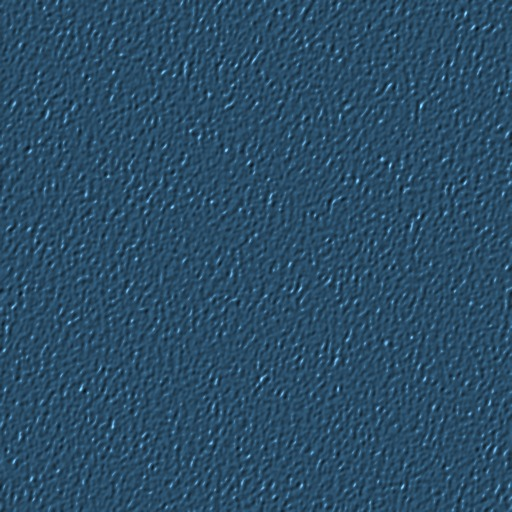
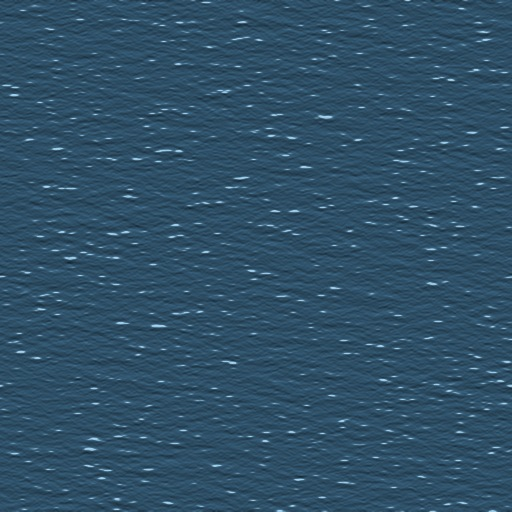
Natural land and sea: graded green terrain with relief and biome detail at double resolution, relation colour ramps from CoN, wind-swell waves with whitecaps, land shadow on the water
Claude-Session: https://claude.ai/code/session_014nGi4eSs3FWdL2Rsq4Dqkd

Changed region(s): [[0.0, 0.0, 1.0, 1.0]]

diff --git a/app/world/index.html b/app/world/index.html
@@ -23,18 +23,21 @@ const DATA = new URLSearchParams(location.search).get('data') || '../../art/worl
 const cv = document.getElementById('c'), ctx = cv.getContext('2d');
 const T = 512;
 let W, H, world, countries = [], byIso = {}, cityOrder = [];
-const COL = {
-  me:      {c: [0.28, 0.54, 0.20], a: 0.64},
-  ally:    {c: [0.40, 0.66, 0.38], a: 0.62},
-  passage: {c: [0.11, 0.28, 0.13], a: 0.80},
-  neutral: {c: [0.13, 0.21, 0.21], a: 0.86},   // strangers: CoN's deep blue-green slate (sampled from CoN)
-  enemy:   {c: [0.34, 0.035, 0.05], a: 0.84},
+// Relation colours as shadow -> highlight ramps measured from CoN screenshots. The terrain's own light and
+// dark runs through the ramp, so forests, fields and hills stay visible in every colour.
+// keep = how much of the natural terrain colour stays (own land is shown nearly as it is).
+const RAMP = {
+  me:      {lo: [26, 66, 30],   hi: [146, 190, 96],  keep: 0.75},
+  ally:    {lo: [84, 104, 62],  hi: [188, 204, 146], keep: 0.15},   // pale olive, like Algeria in CoN
+  passage: {lo: [12, 44, 22],   hi: [70, 118, 62],   keep: 0.10},
+  neutral: {lo: [8, 24, 20],    hi: [64, 84, 76],    keep: 0.0},    // deep blue-green slate
+  enemy:   {lo: [30, 4, 4],     hi: [142, 40, 34],   keep: 0.0},    // blood red, terrain showing through
 };
 let ME = 'JOR';
 let REL = {SAU: 'ally', EGY: 'ally', IRQ: 'passage', IRN: 'enemy'};   // everyone else: neutral (dark slate)
 const relOf = i => { const iso = countries[i]?.iso; return iso === ME ? 'me' : (REL[iso] || 'neutral'); };
 let view = {x: 0, y: 0, z: 1};
-let wavePat = null;
+let wavePat = null, manifest = null, ZMAX = 3;
 load('waves.jpg').then(img => { wavePat = ctx.createPattern(img, 'repeat'); draw(); });
 // gentle wave motion: a light redraw loop (about 12 frames a second, paused when the app is hidden)
 setInterval(() => { if (!document.hidden && world && view.z > 0.15) draw(); }, 83);
@@ -46,31 +49,30 @@ function load(src) { return new Promise((r, j) => { const i = new Image(); i.onl
 async function buildTile(z, tx, ty) {
   const [sat, nat] = await Promise.all([load(`${DATA}tiles/${z}/${tx}_${ty}.jpg`), load(`${DATA}tiles/${z}/${tx}_${ty}_n.png`)]);
   const w = sat.width, h = sat.height;
-  const c = document.createElement('canvas'); c.width = w; c.height = h;
-  const g = c.getContext('2d', {willReadFrequently: true});
+  const mkc = () => { const c = document.createElement('canvas'); c.width = w; c.height = h; return c; };
+  const landC = mkc(), g = landC.getContext('2d', {willReadFrequently: true});
   g.drawImage(nat, 0, 0); const nd = g.getImageData(0, 0, w, h).data;
   g.drawImage(sat, 0, 0); const id = g.getImageData(0, 0, w, h), d = id.data;
-  const nid = new Int16Array(w * h);
-  for (let p = 0; p < w * h; p++) nid[p] = nd[p * 4] + nd[p * 4 + 1] * 256 - 1;
+  const seaC = mkc(), sg = seaC.getContext('2d'), sid = sg.createImageData(w, h), sd = sid.data;
   const lut = {};
+  let anySea = false, anyLand = false;
   for (let p = 0, q = 0; p < w * h; p++, q += 4) {
-    const n = nid[p];
+    const n = nd[q] + nd[q + 1] * 256 - 1;
     if (n < 0) {
-      // sea: let the animated waves show through; coastal shallows keep a light, clear tint
-      const shallow = Math.min(1, Math.max(0, (d[q + 1] - 88) / 52));
-      d[q + 3] = Math.round(shallow * 150);
+      // sea: this pixel is a light/shadow code laid over the waves (land shadow on the water, lighter shallows)
+      sd[q] = d[q]; sd[q + 1] = d[q + 1]; sd[q + 2] = d[q + 2]; sd[q + 3] = 255; d[q + 3] = 0; anySea = true;
       continue;
     }
-    const s = lut[n] || (lut[n] = COL[relOf(n)]);
-    // brightness kept but squeezed, so bright deserts and dark forests take the same colour family
-    const L = Math.min(1.35, Math.max(0.6, 0.45 + 0.55 * (0.3 * d[q] + 0.59 * d[q + 1] + 0.11 * d[q + 2]) / 255 / 0.36));
-    const a = s.a, cc = s.c;
-    d[q] = d[q] * (1 - a) + Math.min(255, cc[0] * L * 255) * a;
-    d[q + 1] = d[q + 1] * (1 - a) + Math.min(255, cc[1] * L * 255) * a;
-    d[q + 2] = d[q + 2] * (1 - a) + Math.min(255, cc[2] * L * 255) * a;
+    anyLand = true;
+    const r = lut[n] || (lut[n] = RAMP[relOf(n)]);
+    const t = Math.min(1, Math.max(0, ((0.3 * d[q] + 0.59 * d[q + 1] + 0.11 * d[q + 2]) / 255 - 0.2) / 0.5));
+    const k = r.keep, lo = r.lo, hi = r.hi;
+    d[q]     = d[q]     * k + (lo[0] + (hi[0] - lo[0]) * t) * (1 - k);
+    d[q + 1] = d[q + 1] * k + (lo[1] + (hi[1] - lo[1]) * t) * (1 - k);
+    d[q + 2] = d[q + 2] * k + (lo[2] + (hi[2] - lo[2]) * t) * (1 - k);
   }
-  g.putImageData(id, 0, 0);
-  return c;
+  g.putImageData(id, 0, 0); sg.putImageData(sid, 0, 0);
+  return {land: anyLand ? landC : null, sea: anySea ? seaC : null};
 }
 
 function tileFor(z, tx, ty) {
@@ -78,6 +80,7 @@ function tileFor(z, tx, ty) {
   let e = cache.get(k);
   if (!e) {
     e = {canvas: null}; cache.set(k, e);
+    if (manifest && !manifest[z]?.has(`${tx}_${ty}`)) { e.canvas = {land: null, sea: null}; return e.canvas; }   // open sea: waves only
     buildTile(z, tx, ty).then(c => { e.canvas = c; draw(); }, () => { e.failed = true; });
     if (cache.size > 220) { const old = cache.keys().next().value; cache.delete(old); }
   }
@@ -91,31 +94,38 @@ function draw() {
   ctx.setTransform(1, 0, 0, 1, 0, 0);
   // the sea: CoN-like blue with real wave ripples, anchored to the map and drifting slowly
   if (wavePat) {
-    const ws = 0.48 * devicePixelRatio;                    // ripples keep a natural on-screen size at every zoom
-    const t = performance.now() / 1000;
-    wavePat.setTransform(new DOMMatrix([ws, 0, 0, ws, -view.x * s % (512 * ws) + t * 6, -view.y * s % (512 * ws) + t * 3]));   // pans with the map, drifts slowly
+    const ws = Math.max(0.3 * devicePixelRatio, Math.min(1.1 * devicePixelRatio, s * 0.42));   // waves grow as you zoom in, within natural limits
+    const t = performance.now() / 1000, P = 512 * ws;
+    const mod = (v) => ((v % P) + P) % P;
+    wavePat.setTransform(new DOMMatrix([ws, 0, 0, ws, mod(-view.x * s + sw / 2 + t * 5 * ws), mod(-view.y * s + sh / 2 + t * 1.6 * ws)]));
     ctx.fillStyle = wavePat;
-  } else ctx.fillStyle = '#2a4d67';
+  } else ctx.fillStyle = '#2e4f66';
   ctx.fillRect(0, 0, sw, sh);
   // far away the ripples would shimmer: fade them to the calm sea colour
   const calm = 1 - smooth(0.15, 0.45, view.z);
-  if (calm > 0) { ctx.globalAlpha = calm; ctx.fillStyle = '#2a4d67'; ctx.fillRect(0, 0, sw, sh); ctx.globalAlpha = 1; }
+  if (calm > 0) { ctx.globalAlpha = calm; ctx.fillStyle = '#2e4f66'; ctx.fillRect(0, 0, sw, sh); ctx.globalAlpha = 1; }
   // zoom level: full resolution (3) when close, coarser tiles when far
-  const z = Math.max(0, Math.min(3, Math.round(3 + Math.log2(view.z))));
-  const f = 2 ** (3 - z);                     // world px per tile px
+  const z = Math.max(0, Math.min(ZMAX, Math.round(3 + Math.log2(view.z) + 0.25)));
+  const f = 2 ** (3 - z);                     // world px per tile px (0.5 at the sharpest level)
   const x0 = view.x - sw / 2 / s, y0 = view.y - sh / 2 / s, x1 = view.x + sw / 2 / s, y1 = view.y + sh / 2 / s;
   ctx.imageSmoothingQuality = 'high';
+  const vis = [];
   for (let ty = Math.max(0, Math.floor(y0 / (T * f))); ty * T * f < Math.min(H, y1); ty++)
     for (let tx = Math.max(0, Math.floor(x0 / (T * f))); tx * T * f < Math.min(W, x1); tx++) {
-      let c = tileFor(z, tx, ty), zz = z, ox = 0, oy = 0, sc = 1;
+      let c = tileFor(z, tx, ty), ox = 0, oy = 0, sc = 1;
       // while a sharp tile loads, show the coarser parent so the map never has holes
-      if (!c && z > 0) { const p = cache.get(`${gen}/${z - 1}/${tx >> 1}/${ty >> 1}`); if (p?.canvas) { c = p.canvas; zz = z - 1; ox = (tx & 1) * T / 2; oy = (ty & 1) * T / 2; sc = 2; } }
+      if (!c && z > 0) { const p = cache.get(`${gen}/${z - 1}/${tx >> 1}/${ty >> 1}`); if (p?.canvas) { c = p.canvas; ox = (tx & 1) * T / 2; oy = (ty & 1) * T / 2; sc = 2; } }
       if (!c) continue;
-      const wx = tx * T * f, wy = ty * T * f;
-      const px = (wx - view.x) * s + sw / 2, py = (wy - view.y) * s + sh / 2;
-      if (sc === 1) ctx.drawImage(c, px, py, c.width * f * s, c.height * f * s);
-      else ctx.drawImage(c, ox, oy, T / 2, T / 2, px, py, T * f * s, T * f * s);
+      vis.push([c, (tx * T * f - view.x) * s + sw / 2, (ty * T * f - view.y) * s + sh / 2, ox, oy, sc]);
     }
+  const put = (img, px, py, ox, oy, sc) => {
+    if (sc === 1) ctx.drawImage(img, px, py, img.width * f * s, img.height * f * s);
+    else ctx.drawImage(img, ox, oy, T / 2, T / 2, px, py, T * f * s, T * f * s);
+  };
+  ctx.globalCompositeOperation = 'hard-light';                      // light and shadow on the water
+  for (const [c, px, py, ox, oy, sc] of vis) if (c.sea) put(c.sea, px, py, ox, oy, sc);
+  ctx.globalCompositeOperation = 'source-over';
+  for (const [c, px, py, ox, oy, sc] of vis) if (c.land) put(c.land, px, py, ox, oy, sc);
   drawBorders(s, sw, sh);
   // cities: most important first; a label that would overlap one already placed is skipped (no clutter, ever)
   ctx.textAlign = 'center';
@@ -189,12 +199,14 @@ cv.addEventListener('touchend', () => pinch = null);
 window.mapView = (x, y, z) => { view = {x, y, z}; draw(); };
 window.setRelations = (me, rel) => { ME = me; REL = rel; gen++; cache.clear(); draw(); };
 window.tilesPending = () => [...cache.values()].filter(e => !e.canvas && !e.failed).length;
+window.world_ = () => world;
 
 fetch(DATA + 'borders.json').then(r => r.ok ? r.json() : []).then(bs => {
   borders = bs.map(b => { let a = 1e9, c = 1e9, d = -1e9, e = -1e9; for (let i = 0; i < b.p.length; i += 2) { a = Math.min(a, b.p[i]); d = Math.max(d, b.p[i]); c = Math.min(c, b.p[i + 1]); e = Math.max(e, b.p[i + 1]); } return {...b, bb: [a, c, d, e]}; });
   draw();
 }, () => 0);
-fetch(DATA + 'world.json').then(r => r.json()).then(j => {
+fetch(DATA + 'world.json').then(r => r.json()).then(async j => {
+  try { const m = await (await fetch(DATA + 'tiles/tiles.json')).json(); manifest = {}; for (const k in m) manifest[k] = new Set(m[k]); ZMAX = Math.max(...Object.keys(m).map(Number)); } catch (e) {}
   world = j; [W, H] = j.size; countries = j.countries; countries.forEach(c => byIso[c.iso] = c);
   const rank = {capital: 0, major: 1, minor: 2};
   const crank = {playable: 0, ai: 1, neutral: 2};

diff --git a/ci/world/build.py b/ci/world/build.py
@@ -385,22 +385,122 @@ for nm, (lo, la) in {'europe': (10, 50), 'mideast': (42, 28), 'levant': (36, 32)
     pim.crop((x - 1000, y - 700, x + 1000, y + 700)).save(os.path.join(OUT, f'crop_{nm}.jpg'), quality=88)
 print('done')
 
-# ---------- tiles for the game: satellite + country ids, 512 px, 4 zoom levels ----------
+# ---------- tiles for the game ----------
+# Land is graded into one natural green terrain (like CoN): real satellite detail and relief, with every
+# region textured (forest canopy, fields, dry scrub, hills). The game recolours it per relation with
+# shadow-to-highlight ramps, so the terrain always shows through and nothing looks painted on.
+# Sea pixels carry a light/shadow code (128 = no change): the land's shadow falls on the water and
+# shallows are lighter. The game lays this over its animated waves.
 if sat:
-    T = 512
-    simg = Image.fromarray(img); nimg = Image.open(os.path.join(OUT, 'nations.png'))
+    T = 512; M = 2 * W; MH = 2 * H
+    nat4 = (raster([(i + 1, countries[a]['geoms']) for i, a in enumerate(ids)], (M, MH)) - 1).astype(np.int16)
+    if os.path.exists(lakes_f):
+        nat4[raster([(1, [f['geometry'] for f in load('ne_10m_lakes.geojson') if (f['properties'].get('scalerank') or 0) <= 3])], (M, MH)) > 0] = -1
+    lf = (nat4 >= 0).astype(np.float32)
+    shallow = np.clip(ndi.gaussian_filter(lf, 26) * 2.0, 0, 1) ** 1.4
+    dsh = 9
+    shadow = np.zeros_like(lf); shadow[dsh:, dsh:] = lf[:-dsh, :-dsh]              # sun from the north-west
+    shadow = ndi.gaussian_filter(shadow, 5)
+    S4 = np.asarray(Image.open(sat).convert('RGB')); sh4, sw4 = S4.shape[:2]
+    relief_f = os.path.join(DATA, 'world.relief.jpg')
+    HS = np.asarray(Image.open(relief_f).convert('L')) if os.path.exists(relief_f) else None
+    hs_mid = float(np.median(HS[::16, ::16])) / 255 if HS is not None else 0.5
+    print('relief', HS is not None, hs_mid)
+    PD = 1024
+    def detail(names):
+        out = []
+        for nm in names:
+            f = os.path.join('art/sat', nm + '.jpg')
+            if not os.path.exists(f): continue
+            a = np.asarray(Image.open(f).convert('RGB').resize((PD, PD), Image.LANCZOS)).astype(np.float32) / 255
+            a = a - ndi.gaussian_filter(a, (40, 40, 0))                              # fine structure only
+            a = a / (a.std() + 1e-6) * 0.055
+            a = np.concatenate([np.concatenate([a, a[:, ::-1]], 1), np.concatenate([a[::-1], a[::-1, ::-1]], 1)], 0)   # mirror tile: no seams
+            out.append(a)
+        return out
+    D = {'forest': detail(['forest', 'forest2']), 'farm': detail(['farmland', 'farmland2', 'grass']), 'arid': detail(['scrub']), 'rock': detail(['hills'])}
+    def dsample(lst, yy, xx, k=0):
+        if not lst: return 0
+        a = lst[k % len(lst)]
+        return a[np.ix_((yy + 311 * k) % (2 * PD), (xx + 173 * k) % (2 * PD))]
+    big = ndi.zoom(ndi.gaussian_filter(np.random.default_rng(9).random((MH // 64 + 2, M // 64 + 2)), 1.5), 64, order=1)[:MH, :M]
+    big = (big - big.mean()) / big.std()
+    half = np.zeros((H, W, 3), np.uint8)
+    manifest = {str(z): [] for z in range(5)}
+    d4 = os.path.join(OUT, 'tiles', '4'); os.makedirs(d4, exist_ok=True)
+    MARG = 128
+    def write_tile(d, z, tx, ty, rgb, nid):
+        if not ((nid >= 0).any() or (np.abs(rgb.astype(np.int16) - 128).max() > 6)): return
+        Image.fromarray(rgb).save(os.path.join(d, f'{tx}_{ty}.jpg'), quality=88)
+        v = nid.astype(np.int32) + 1
+        Image.fromarray(np.dstack([v % 256, v // 256, np.zeros_like(v)]).astype(np.uint8)).save(os.path.join(d, f'{tx}_{ty}_n.png'), optimize=True)
+        manifest[str(z)].append(f'{tx}_{ty}')
+    for ty in range(0, MH, T):
+        a0, a1 = max(0, ty - MARG), min(MH, ty + T + MARG)
+        py, px = np.mgrid[a0:a1, 0:M].astype(np.float64)
+        lon, lat = from_px(px / 2 + 0.25, py / 2 + 0.25)
+        sx = np.clip(((lon + 180) / 360 * sw4).astype(np.int32), 0, sw4 - 1)
+        sy = np.clip(((90 - lat) / 180 * sh4).astype(np.int32), 0, sh4 - 1)
+        del py, px, lon, lat
+        c = S4[sy, sx].astype(np.float32) / 255
+        r, g, b = c[..., 0], c[..., 1], c[..., 2]
+        L = 0.3 * r + 0.59 * g + 0.11 * b
+        veg = np.clip((g - 0.92 * r) * 9 + 0.25, 0, 1)
+        forest = veg * np.clip((0.26 - L) * 9, 0, 1)
+        farm = veg * (1 - forest)
+        arid = (1 - veg) * np.clip((L - 0.22) * 5, 0, 1)
+        snow = np.clip((c.min(-1) - 0.72) * 6, 0, 1)
+        rock = np.clip(1 - veg - arid, 0, 1)
+        # large-scale brightness flattened (deserts and forests end up in one family), local contrast kept
+        Lb = ndi.gaussian_filter(L, 36) + 0.04
+        Ln = np.clip(0.44 * (L / Lb) ** 1.15 * (Lb / 0.3) ** 0.22, 0, 1.2)
+        if HS is not None:
+            h = HS[np.clip((sy.astype(np.float64) * HS.shape[0] / sh4).astype(np.int32), 0, HS.shape[0] - 1),
+                   np.clip((sx.astype(np.float64) * HS.shape[1] / sw4).astype(np.int32), 0, HS.shape[1] - 1)].astype(np.float32) / 255
+            Ln *= np.clip(1 + 1.25 * (h - hs_mid), 0.5, 1.4)                            # real hills and mountains
+            rough = np.clip(np.abs(h - hs_mid) * 5, 0, 1)
+        else: rough = rock
+        yy, xx = np.arange(a0, a1), np.arange(M)
+        mix = (big[a0:a1] > 0)[..., None]
+        det = (forest[..., None] * dsample(D['forest'], yy, xx, 0) * 1.5
+               + farm[..., None] * np.where(mix, dsample(D['farm'], yy, xx, 0), dsample(D['farm'], yy, xx, 1)) * 1.2
+               + arid[..., None] * dsample(D['arid'], yy, xx, 0) * 1.0
+               + rough[..., None] * dsample(D['rock'], yy, xx, 0) * 0.9) * (1 - snow[..., None])
+        t = np.clip((Ln + det.mean(-1) * 2.2 - 0.16) / 0.62, 0, 1)[..., None]
+        lo = np.array([0.105, 0.255, 0.115], np.float32); hi = np.array([0.56, 0.72, 0.36], np.float32)
+        col = lo + (hi - lo) * t
+        col += arid[..., None] * np.array([0.085, 0.03, -0.03], np.float32) * (0.4 + t)   # dry land: olive and straw
+        col += forest[..., None] * np.array([-0.03, -0.01, 0.005], np.float32)            # forest: deeper, cooler green
+        col += (det - det.mean(-1, keepdims=True)) * 1.6                                    # field colours
+        col = col * (1 - snow[..., None]) + (0.62 + 0.3 * t) * snow[..., None]
+        out = (np.clip(col, 0, 1) * 255).astype(np.uint8)
+        k0 = ty - a0; rows = min(T, MH - ty)
+        out = out[k0:k0 + rows]
+        nidr = nat4[ty:ty + rows]
+        seam = nidr < 0
+        v = 128 - 82 * shadow[ty:ty + rows] + 30 * shallow[ty:ty + rows]
+        s2 = shallow[ty:ty + rows]
+        code = np.dstack([v - 7 * s2, v + 4 * s2, v + 11 * s2])
+        out = np.where(seam[..., None], np.clip(code, 0, 255).astype(np.uint8), out)
+        for tx in range(0, M, T):
+            write_tile(d4, 4, tx // T, ty // T, out[:, tx:tx + T], nidr[:, tx:tx + T])
+        hr = np.asarray(Image.fromarray(out).resize((W, rows // 2), Image.LANCZOS))
+        half[ty // 2:ty // 2 + rows // 2] = hr
+        print('tile row', ty // T, flush=True)
+    del S4, shadow, shallow, lf
+    nat3 = nat4[::2, ::2]
     for z in range(4):
-        f = 2 ** (3 - z)
-        w, h = W // f, H // f
-        si = simg.resize((w, h), Image.LANCZOS) if f > 1 else simg
-        ni = nimg.resize((w, h), Image.NEAREST) if f > 1 else nimg
+        f = 2 ** (3 - z); w, h = W // f, H // f
+        si = Image.fromarray(half).resize((w, h), Image.LANCZOS) if f > 1 else Image.fromarray(half)
+        ni = nat3[::f, ::f][:h, :w]
+        sa = np.asarray(si)
         d = os.path.join(OUT, 'tiles', str(z)); os.makedirs(d, exist_ok=True)
         for ty in range(0, h, T):
             for tx in range(0, w, T):
-                box = (tx, ty, min(tx + T, w), min(ty + T, h))
-                si.crop(box).save(os.path.join(d, f'{tx // T}_{ty // T}.jpg'), quality=86)
-                ni.crop(box).save(os.path.join(d, f'{tx // T}_{ty // T}_n.png'), optimize=True)
-    print('tiles written')
+                write_tile(d, z, tx // T, ty // T, sa[ty:ty + T, tx:tx + T], ni[ty:ty + T, tx:tx + T])
+    json.dump(manifest, open(os.path.join(OUT, 'tiles', 'tiles.json'), 'w'), separators=(',', ':'))
+    print('tiles written', {z: len(v) for z, v in manifest.items()})
+    del nat4
 
 # ---------- smooth vector borders: shared segments between two countries (no coastlines) ----------
 # Drawn live by the game as anti-aliased lines, styled by relation, crisp at every zoom.

diff --git a/ci/world/fetch_sat.py b/ci/world/fetch_sat.py
@@ -6,7 +6,7 @@ from PIL import Image
 
 OUT = sys.argv[1]
 TILE, NX, NY = 2048, 8, 4
-LAYERS = ['BlueMarble_NextGeneration', 'BlueMarble_ShadedRelief']
+LAYERS = sys.argv[2].split(',') if len(sys.argv) > 2 else ['BlueMarble_NextGeneration', 'BlueMarble_ShadedRelief']
 BASE = 'https://gibs.earthdata.nasa.gov/wms/epsg4326/best/wms.cgi'
 
 def get(layer, lat0, lon0, lat1, lon1):
